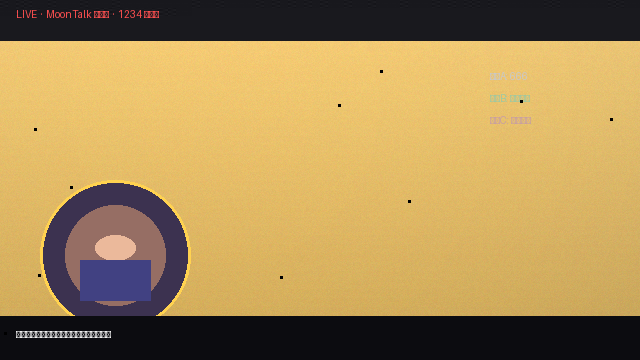
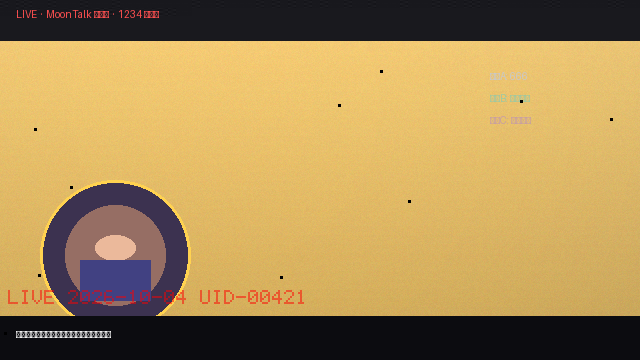
fix: E2E 文字水印不可见——Cjk16 只含汉字不含 ASCII，改用 ascii5x7 + 调整位置/字号
- cmd/e2e: 文本 LIVE·2026-10-04 UID-00421 (cjk16) → LIVE 2026-10-04 UID-00421 (ascii5x7)；
  font_size 1→2，y 320→290 避开底部字幕条(316+)；Cjk16 对 ASCII 返回 None 渲染空白
- README: 功能矩阵/设计说明补 Cjk16 不含 ASCII 的边界说明（混合文本用 ascii5x7 或 with_cjk16 补字）

Changed region(s): [[0.0, 0.7944, 0.2812, 0.8556], [0.3125, 0.7944, 0.4688, 0.8556]]

diff --git a/README.md b/README.md
@@ -8,7 +8,7 @@ MoonBit 图像水印算法库：**可见水印**（文本 / 随机点阵 / Logo 
 
 | 类型 | API | 说明 |
 | --- | --- | --- |
-| 文本水印 | `RgbaImage::embed_text` + `TextConfig` | 内置 5×7 点阵字体（A-Z / 0-9 / 常用符号）+ **16×16 中文点阵（Cjk16，GB2312 一级字 3755 个）**；`TextConfig.font` 切换，支持缩放、透明度、定位、**角度旋转**（`angle`，45° 斜向防盗播水印） |
+| 文本水印 | `RgbaImage::embed_text` + `TextConfig` | 内置 5×7 点阵字体（A-Z / 0-9 / 常用符号）+ **16×16 中文点阵（Cjk16，GB2312 一级字 3755 个）**；`TextConfig.font` 切换，支持缩放、透明度、定位、**角度旋转**（`angle`，45° 斜向防盗播水印）。⚠ **Cjk16 只含汉字**：含数字/字母/符号的文本会渲染为空白，请用 `ascii5x7`，或 `BitmapFont::with_cjk16(extra)` 在汉字基础上补充品牌字形/ASCII |
 | 随机点阵水印 | `RgbaImage::embed_dots` + `DotConfig` | 确定性 PRNG（xorshift64）按网格落点；**同一 seed 完全可复现 → 可提取、可溯源** |
 | Logo 水印 | `RgbaImage::embed_logo` | 任意 RGBA 图叠加，支持透明 PNG |
 | 平铺水印 | `RgbaImage::embed_tiled` + `TiledConfig` | 全幅网格平铺，防截屏/盗摄 |
@@ -167,7 +167,7 @@ moon run cmd/e2e -- your.png     # 任意图片跑同一链路
 
 链路与实测输出（`moon run cmd/e2e`，v0.1.10）：
 
-1. **贴片三件套嵌入**：可见文本 `LIVE·2026-10-04 UID-00421`（右下角，防盗播震慑）+ 点阵 `seed=421`（观众 ID，溯源用）+ DCT `UID-00421`（抗平台转码的取证载体）；
+1. **贴片三件套嵌入**：可见文本 `LIVE 2026-10-04 UID-00421`（中下部字幕条上方，防盗播震慑；ASCII 文本走 `ascii5x7`——`Cjk16` 只含汉字、混合文本会空白）+ 点阵 `seed=421`（观众 ID，溯源用）+ DCT `UID-00421`（抗平台转码的取证载体）；
 2. **模拟平台转码**：`encode_jpeg(85)`（平台切片/分发必经的 JPEG 重压链路）→ 读回；
 3. **溯源验证**：
    - `extract_dots` 命中率 `1` → PASS（点阵在 JPEG q85 后完整保留）；
@@ -227,7 +227,7 @@ moon run cmd/bench -- 640 360 # 指定尺寸
 - **安全边界**：LSB 与 DCT 水印提供**隐蔽性与 JPEG 鲁棒性**，不提供强加密/抗伪造——嵌入格式（magic、布局、系数位置）为公开知识，知道算法者可提取或覆盖水印；需要鉴权/防伪时，依赖持有方按 secret 管理嵌入参数（LSB 的 `key`、DCT 的 `delta`），并在上层做密钥分发与吊销。
 - **embed_\* 统一返回 `Result[RgbaImage, String]`**（v0.1.9 起）：可见水印当前无失败路径（Ok 恒成立），不可见水印容量超限返回 Err；调用方统一一种错误处理模式。`extract_*` 返回 `Bytes?`（提取失败 None），`extract_dots` 返回命中率（0.0~1.0）。
 - **旋转实现**：逆映射最近邻 + 像素中心坐标（`round` 定位源像素），90/180/270 为精确像素搬运；源范围外像素透明。`embed_text` 对 >512 字符返回 Err——超长文本旋转会分配 GB 级中间位图（资源保护，见「非目标」）。
-- **GlyphProvider 字形接口**：`trait GlyphProvider { cell_width / cell_height / glyph }`，内置 `Ascii5x7`（拉丁）与 `Cjk16`（16×16 中文点阵，**GB2312 一级字 3755 个**，Noto CJK 生成；未收录的生僻字跳过）。自定义字形：实现 trait 后走 `render_text_with`，或用 `BitmapFont::new(w, h, pairs)` 一行构造自带字表、`BitmapFont::with_cjk16(extra)` 在内置字集上补充生僻字/品牌字形；亦可经 `TextConfig.font`（JSON 兼容）切换内置字体。
+- **GlyphProvider 字形接口**：`trait GlyphProvider { cell_width / cell_height / glyph }`，内置 `Ascii5x7`（拉丁，A-Z/0-9/常用符号）与 `Cjk16`（16×16 中文点阵，**GB2312 一级字 3755 个**，Noto CJK 生成；未收录的字形返回 `None` → 渲染为空白）。⚠ **Cjk16 不含 ASCII**：含数字/字母的文本水印用 `ascii5x7`，或 `BitmapFont::with_cjk16(extra)` 补字（如品牌名、`LIVE` 等英文标识）。自定义字形：实现 trait 后走 `render_text_with`，或用 `BitmapFont::new(w, h, pairs)` 一行构造自带字表；亦可经 `TextConfig.font`（JSON 兼容）切换内置字体。
 
 ## 非目标（明确边界）
 
